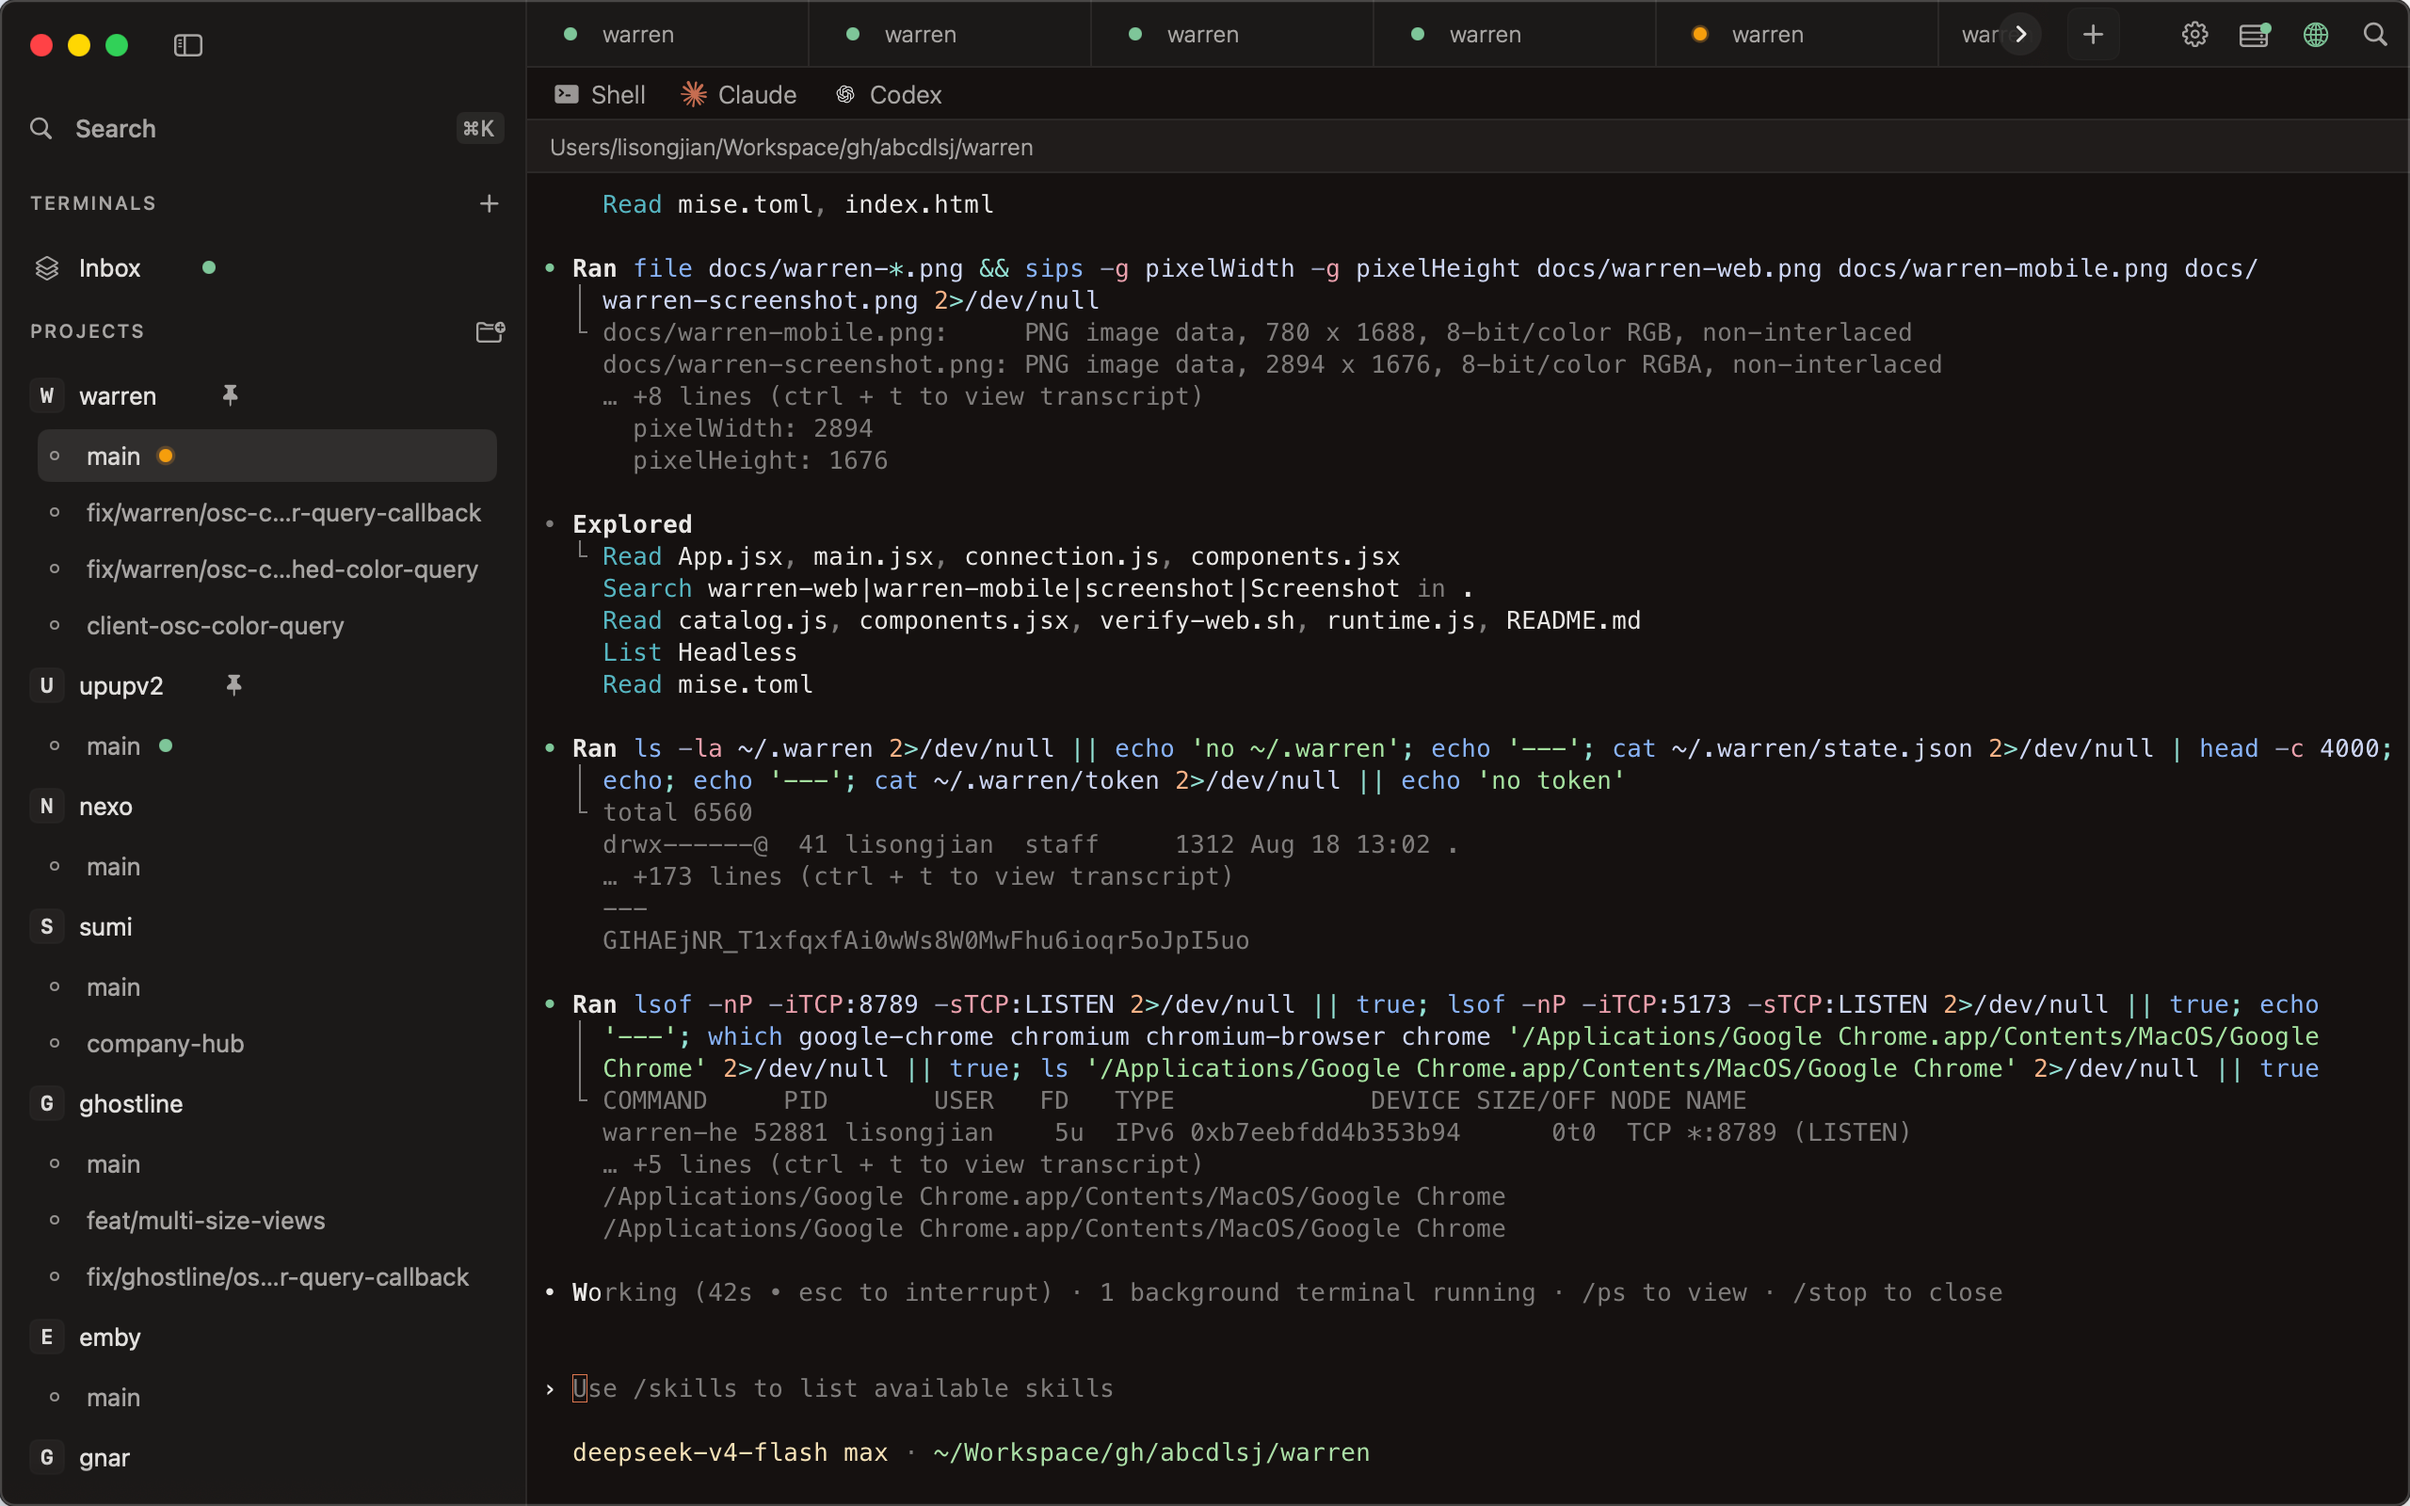
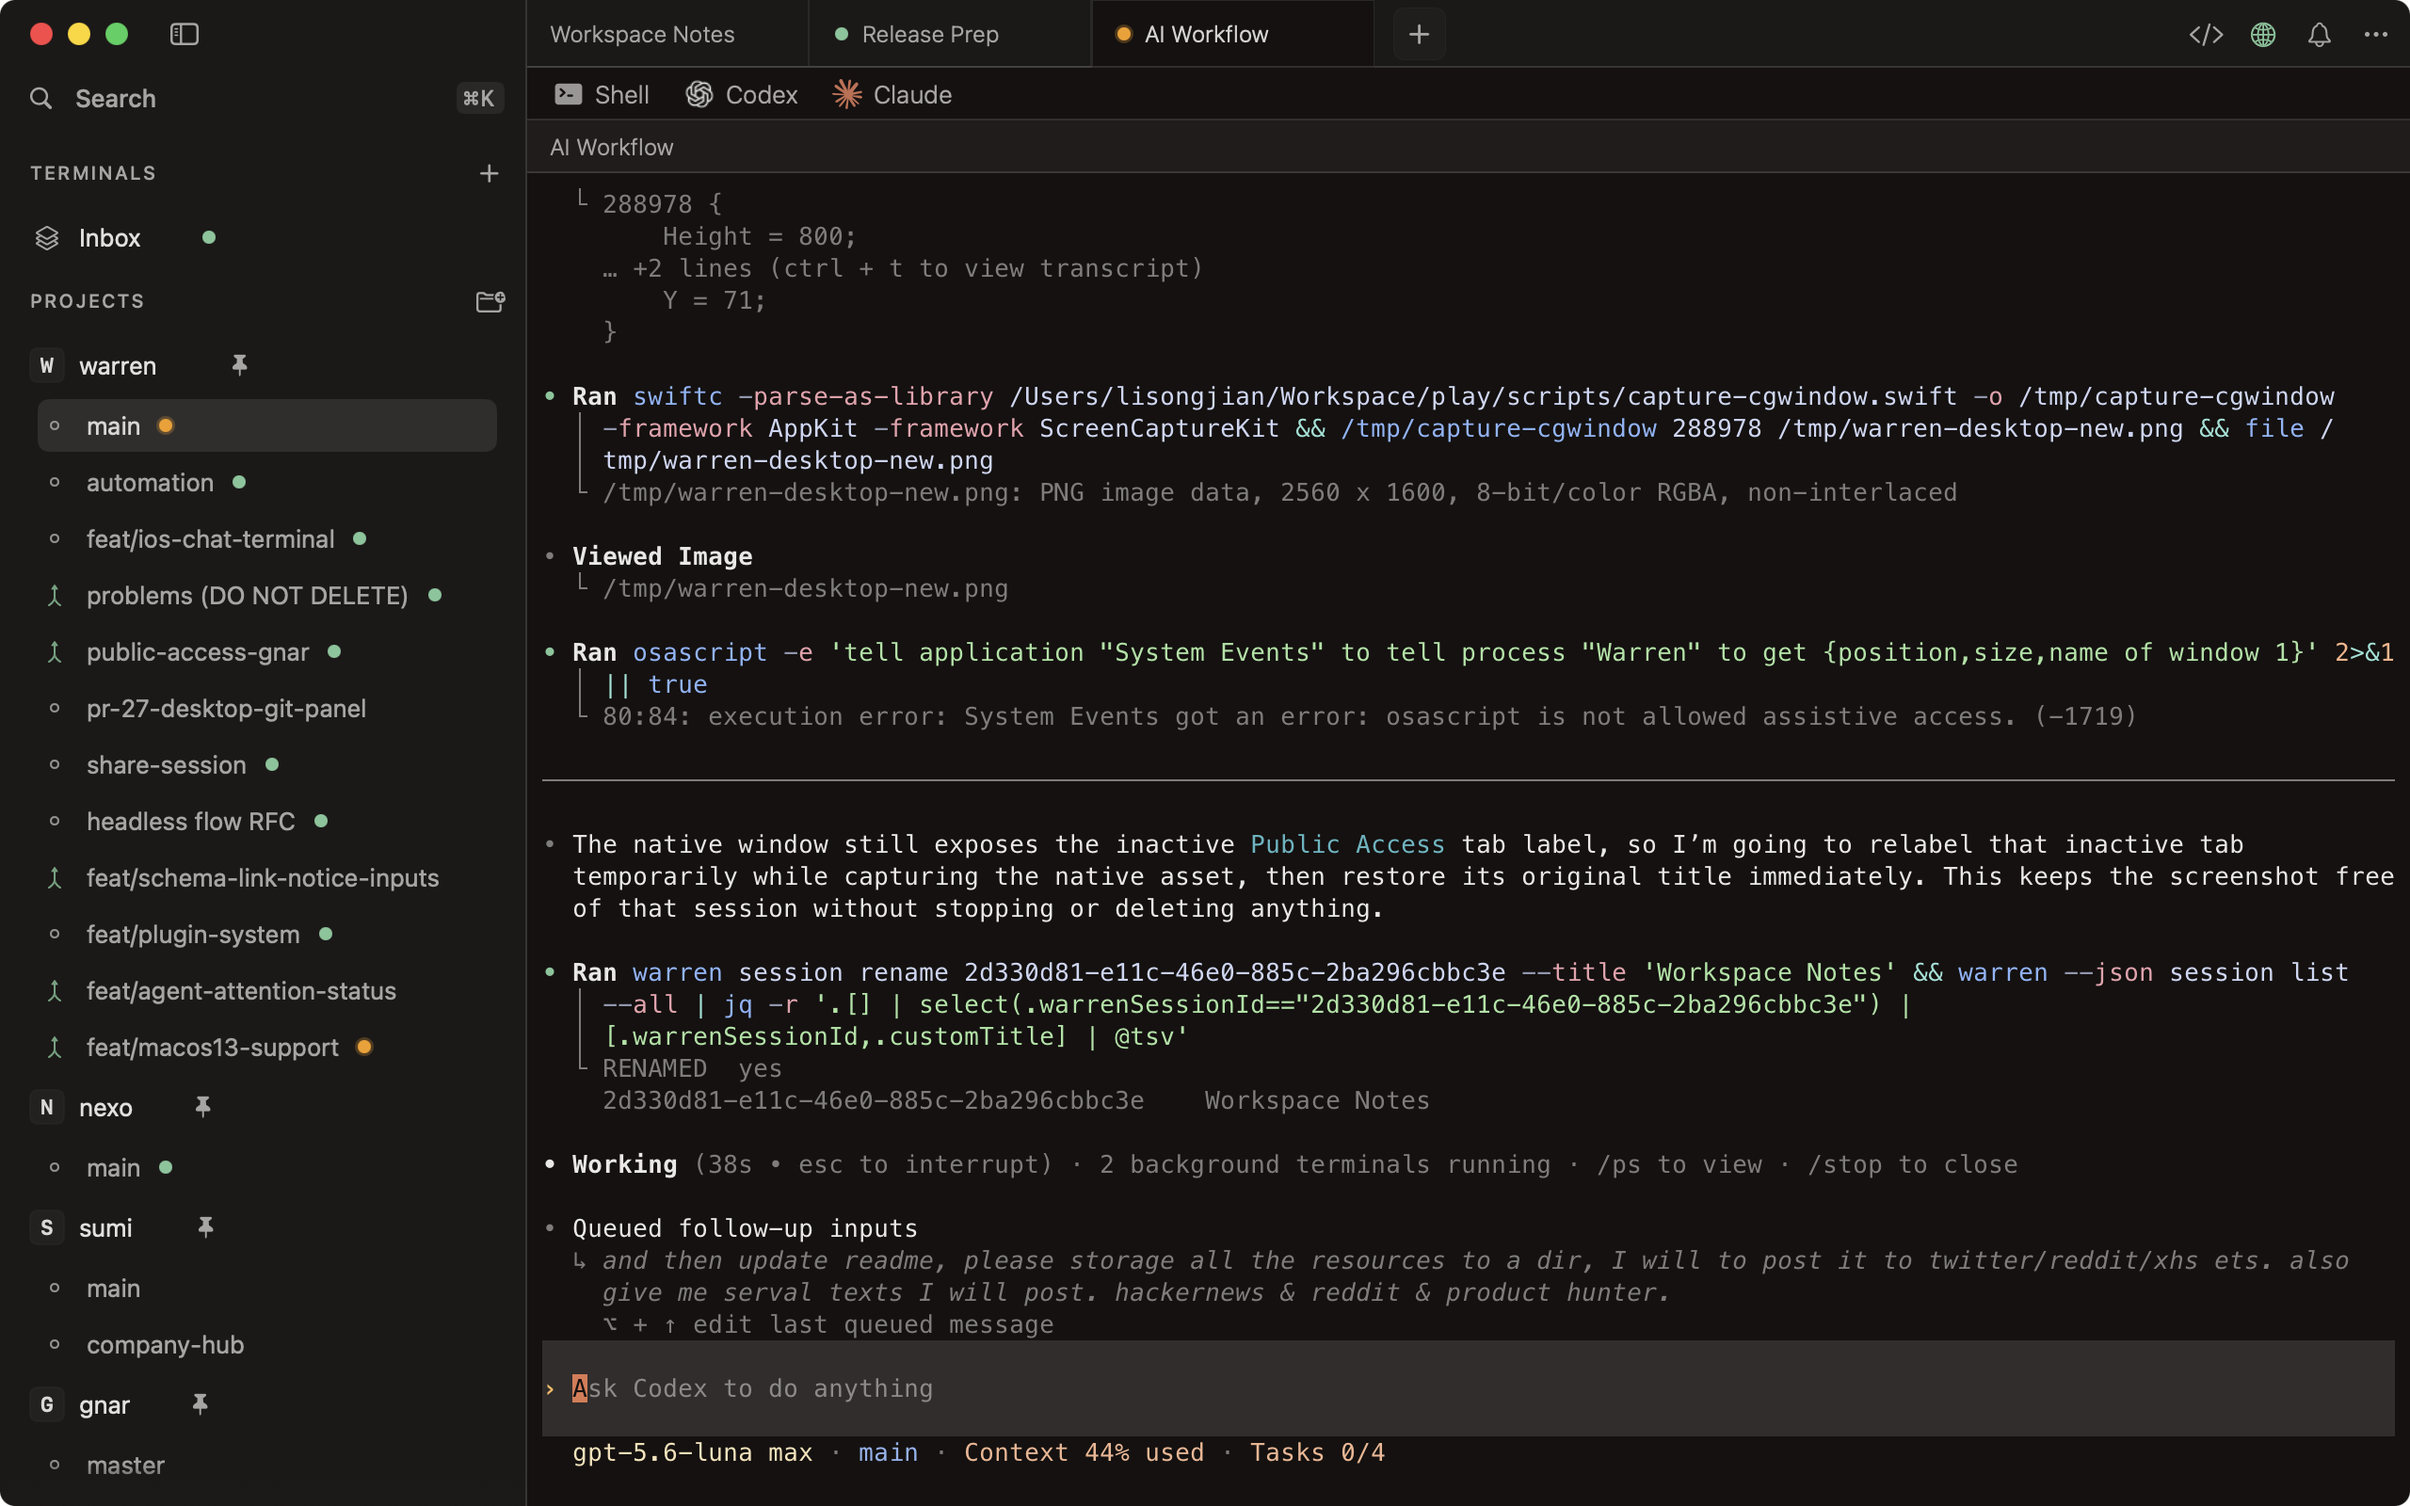
feat: refresh onboarding device gallery
Make the terminal demo opt-in through the new #demo anchor and keep legacy #terminal URLs at the top of the home page. Add reviewed desktop, web, and mobile screenshots with localized captions and responsive gallery layout.\n\nChecks: npm --prefix Onboarding test; npm --prefix Onboarding run build.\nRisk: the legacy #terminal deep link no longer opens the demo by default; the updated navigation and CTA provide the explicit #demo path.

diff --git a/Onboarding/src/i18n.jsx b/Onboarding/src/i18n.jsx
@@ -21,10 +21,37 @@ const messages = {
     "hero.status": "Open source · phase one",
     "hero.platform": "macOS · Web · CLI",
     "ticker.items": ["Run", "Detach", "Reconnect", "Resume", "Workspaces", "Agent views"],
-    "product.kicker": "Today",
-    "product.title": "One workspace for terminal, agents, and workflows.",
-    "product.caption": "Projects and workspaces on the left; terminal tabs, sessions, workflow context, and agent views in the middle.",
-    "product.alt": "Warren desktop with project sidebar, terminal tabs and an agent view",
+    "product.kicker": "Across every screen",
+    "product.title": "One workspace, every screen.",
+    "product.lede":
+      "Start on the desktop, pick up in a browser, or check in from your phone. The same host keeps every workflow ready.",
+    "product.devices": [
+      {
+        label: "macOS desktop",
+        alt: "Warren macOS desktop with projects, terminal tabs, and an agent view",
+        caption: "The complete workspace for focused work.",
+      },
+      {
+        label: "Web · agent view",
+        alt: "Warren web client showing an agent conversation",
+        caption: "Pick up the same workflow from a browser.",
+      },
+      {
+        label: "Web · terminal",
+        alt: "Warren web client showing a terminal session",
+        caption: "Keep terminal access when you leave the desktop.",
+      },
+      {
+        label: "Mobile · agent view",
+        alt: "Warren mobile client showing an agent conversation",
+        caption: "Check progress and respond from your phone.",
+      },
+      {
+        label: "Mobile · terminal",
+        alt: "Warren mobile client showing a terminal session",
+        caption: "Reconnect to the host wherever you are.",
+      },
+    ],
     "terminal.kicker": "Interactive demo",
     "terminal.title": "The desktop's terminal engine, try it here",
     "terminal.lede":
@@ -514,10 +541,37 @@ const messages = {
     "hero.status": "Phase one · 开源",
     "hero.platform": "macOS · Web · CLI",
     "ticker.items": ["断开", "重连", "恢复", "工作区", "会话", "Agent 视图"],
-    "product.kicker": "现在",
-    "product.title": "这是现在的桌面端。",
-    "product.caption": "左边是 Project 和 Workspace，中间是终端 Tab、会话和 Agent 视图。",
-    "product.alt": "Warren 桌面端截图：项目侧栏、终端 Tab 和 Agent 视图",
+    "product.kicker": "每一块屏幕",
+    "product.title": "一个 Workspace，随时随地接着做。",
+    "product.lede":
+      "从桌面端开始，在浏览器里接着做，也能用手机查看进度。所有客户端共享同一个 Host。",
+    "product.devices": [
+      {
+        label: "macOS 桌面端",
+        alt: "Warren macOS 桌面端：项目、终端 Tab 和 Agent 视图",
+        caption: "完整的工作区，适合专注工作。",
+      },
+      {
+        label: "Web · Agent 视图",
+        alt: "Warren Web 客户端中的 Agent 对话",
+        caption: "打开浏览器，接着同一个工作流。",
+      },
+      {
+        label: "Web · 终端",
+        alt: "Warren Web 客户端中的终端会话",
+        caption: "离开桌面端，也能继续使用终端。",
+      },
+      {
+        label: "移动端 · Agent 视图",
+        alt: "Warren 移动端中的 Agent 对话",
+        caption: "用手机查看进度、继续回复。",
+      },
+      {
+        label: "移动端 · 终端",
+        alt: "Warren 移动端中的终端会话",
+        caption: "无论在哪里，都能重新连回 Host。",
+      },
+    ],
     "terminal.kicker": "可交互演示",
     "terminal.title": "桌面端同一个终端引擎，这里就能试",
     "terminal.lede":

diff --git a/Onboarding/src/App.jsx b/Onboarding/src/App.jsx
@@ -47,7 +47,7 @@ function Nav({ current = "home" }) {
   const { t } = useI18n();
   const isChangelog = current === "changelog";
   const homeHref = isChangelog ? "/" : "#top";
-  const terminalHref = isChangelog ? "/#terminal" : "#terminal";
+  const terminalHref = isChangelog ? "/#demo" : "#demo";
   const whyHref = isChangelog ? "/#why" : "#why";
   return (
     <header className="nav">
@@ -136,7 +136,7 @@ function Hero() {
           </svg>
           {downloadLabel}
         </button>
-        <a className="btn ghost" href="#terminal">
+        <a className="btn ghost" href="#demo">
           {t("hero.ctaTerminal")}
         </a>
         <a
@@ -176,20 +176,46 @@ function Ticker() {
   );
 }
 
+const productShots = [
+  { src: "/screenshot-desktop.png", className: "product-card-desktop" },
+  { src: "/screenshot-web-agent.png", className: "product-card-web" },
+  { src: "/screenshot-web-terminal.png", className: "product-card-web" },
+  { src: "/screenshot-mobile-agent.png", className: "product-card-mobile" },
+  { src: "/screenshot-mobile-terminal.png", className: "product-card-mobile" },
+];
+
 function ProductShot() {
   const { t } = useI18n();
+  const devices = t("product.devices");
   return (
-    <section className="section product">
+    <section id="devices" className="section product">
       <Reveal className="section-head">
         <p className="kicker">{t("product.kicker")}</p>
         <h2>{t("product.title")}</h2>
+        <p className="section-lede">{t("product.lede")}</p>
       </Reveal>
-      <Reveal delay={100}>
-        <figure className="product-frame">
-          <img src="/screenshot-desktop.png" alt={t("product.alt")} loading="lazy" />
-          <figcaption>{t("product.caption")}</figcaption>
-        </figure>
-      </Reveal>
+      <div className="product-gallery">
+        {productShots.map((shot, index) => {
+          const copy = devices[index] ?? devices[0];
+          return (
+            <Reveal
+              className={`product-card ${shot.className}`}
+              delay={100 + index * 60}
+              key={shot.src}
+            >
+              <figure className="product-frame">
+                <div className="product-media">
+                  <img src={shot.src} alt={copy.alt} loading="lazy" />
+                </div>
+                <figcaption>
+                  <strong>{copy.label}</strong>
+                  <span>{copy.caption}</span>
+                </figcaption>
+              </figure>
+            </Reveal>
+          );
+        })}
+      </div>
     </section>
   );
 }
@@ -397,6 +423,14 @@ function ChangelogPage() {
 }
 
 function HomePage() {
+  useEffect(() => {
+    // The old #terminal link pointed straight at the WASM demo on page load.
+    // Keep that legacy URL at the top; the new #demo link remains opt-in.
+    if (window.location.hash !== "#terminal") return;
+    window.history.replaceState(null, "", `${window.location.pathname}${window.location.search}`);
+    window.scrollTo({ top: 0, left: 0, behavior: "auto" });
+  }, []);
+
   return (
     <div className="site">
       <div className="grain" aria-hidden="true" />

diff --git a/Onboarding/src/styles.css b/Onboarding/src/styles.css
@@ -411,13 +411,35 @@ button {
   margin-bottom: 40px;
 }
 
+.product-gallery {
+  display: grid;
+  grid-template-columns: repeat(2, minmax(0, 1fr));
+  gap: 14px;
+}
+
+.product-card {
+  min-width: 0;
+}
+
+.product-card-desktop {
+  grid-column: 1 / -1;
+}
+
 .product-frame {
   margin: 0;
+  height: 100%;
+  display: flex;
+  flex-direction: column;
   overflow: hidden;
   border: 1px solid var(--line-strong);
   border-radius: 14px;
   background: var(--bg-deep);
   box-shadow: 0 30px 90px rgba(0, 0, 0, 0.42);
+}
+
+.product-media {
+  overflow: hidden;
+  background: #0d0c0b;
 }
 
 .product-frame img {
@@ -426,12 +448,34 @@ button {
   height: auto;
 }
 
+.product-card-desktop .product-media img,
+.product-card-web .product-media img {
+  aspect-ratio: 16 / 10;
+  object-fit: cover;
+}
+
+.product-card-mobile .product-media img {
+  aspect-ratio: 780 / 1688;
+  object-fit: cover;
+}
+
 .product-frame figcaption {
   padding: 14px 18px;
   border-top: 1px solid var(--line);
+  display: flex;
+  flex-direction: column;
+  gap: 4px;
   font-family: var(--mono);
   font-size: 12px;
+  line-height: 1.5;
   color: var(--faint);
+}
+
+.product-frame figcaption strong {
+  color: var(--text);
+  font-family: var(--sans);
+  font-size: 14px;
+  font-weight: 560;
 }
 
 .terminal .section-head {
@@ -956,6 +1000,10 @@ button {
 }
 
 @media (max-width: 560px) {
+  .product-gallery {
+    gap: 10px;
+  }
+
   .feature-grid {
     grid-template-columns: 1fr;
   }
@@ -971,6 +1019,15 @@ button {
 
   .terminal-badge {
     display: none;
+  }
+
+  .product-frame figcaption {
+    padding: 12px 13px;
+    font-size: 11px;
+  }
+
+  .product-frame figcaption strong {
+    font-size: 13px;
   }
 
   .footer-meta {

diff --git a/Onboarding/src/TerminalDemo.jsx b/Onboarding/src/TerminalDemo.jsx
@@ -288,7 +288,7 @@ export default function TerminalDemo() {
   }, []);
 
   return (
-    <section id="terminal" className="section terminal">
+    <section id="demo" className="section terminal">
       <div className="section-head">
         <p className="kicker">{t("terminal.kicker")}</p>
         <h2>{t("terminal.title")}</h2>
